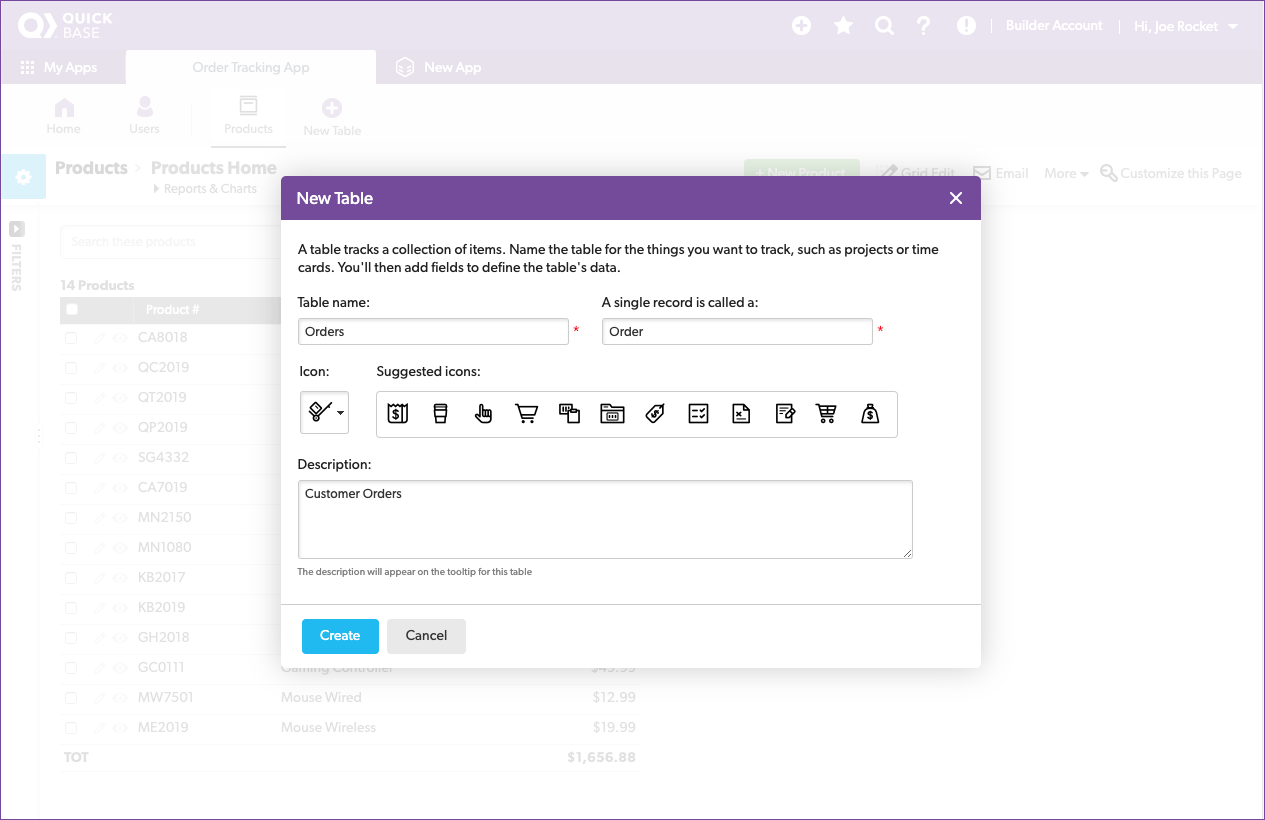
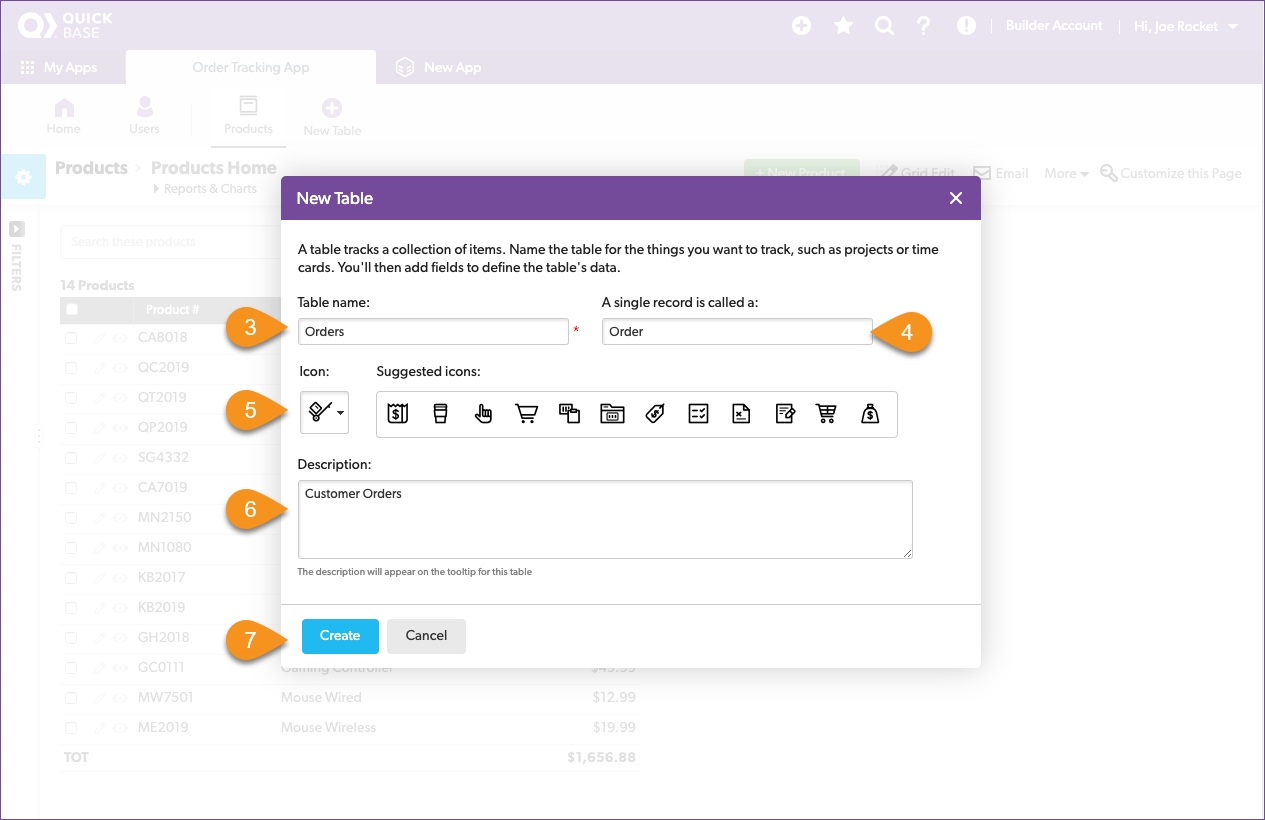
Create orders images

diff --git a/createOrders.md b/createOrders.md
@@ -32,8 +32,6 @@ Reviewing the spreadsheet, you write down the following notes:
 
 Let's take what we learned from the spreadsheet and configure a table to hold the order information. 
 
-![](assets/images/image-17.png)
-
 1. Click **New Table** from the app nav bar  
 2. Click **From scratch - Design your own table**
 3. Name the table: _Orders_
@@ -42,42 +40,57 @@ Let's take what we learned from the spreadsheet and configure a table to hold th
 6. Provide a description
 7. Click **Create**
 
+![](assets/images/image-17.png)
+
 ![](assets/images/image-18.png)
 
 Ok, now add the fields to the table.
-
-![](assets/images/image-19.png)
-
-1. Create fields to hold the _Order #, Customer Name, Order Date_ 
+1. Create fields to hold the _Order #, Customer Name,_ and  _Order Date_ 
 2. Set the data types for each field from our notes above
 3. Click the **Add** button
 
+![](assets/images/image-19.png)
+
+
+
 Don't forget about setting the **key field** for the Orders table. 
 
-![](assets/images/image-20.png)
 
  1. Select the checkbox for Order #
  2. Click **Set Key**
  3. Click the **Set Key** button in the popup  
  4. Verify that the gold key moved to the Order # field
 
+![](assets/images/image-20.png)
+
+![](assets/images/image-20a.png)
+
+![](assets/images/image-20b.png)
+
 ## Import the orders spreadsheet
 
 Finally, import the orders from the OrderList.xlsx file you downloaded earlier. Just like before, the import dialogue box opens and gives you the opportunity to verify that the data will stored correctly. Review the information and import your data.
-
-![](assets/images/image-21.png)
+Here's how:
 
 1. Click the **Import/Export** button
 2. Select **Import into a table from a file**
-3. Confirm Select Table is set to _Orders_ and Select Merge Field is set to _Order #_
-4. Click the **Import From File** button
+3. Confirm Select Table is set to _Orders_ 
+4. Confirm Select Merge Field is set to _Order #_
+5. Click the **Choose file** button and navigate to the _OrderList.xlsx_
+6. Click the **Import From File** button
 
-![](assets/images/image-22.png)
+![](assets/images/image-20c.png)
+
+![](assets/images/image-21.png)
+
+
 
 Next we'll review how each field will be imported to ensure it's correct.
 1. Review the fields to be sure that the correct data is going to the correct fields
 2. Click the **Import** button
 3. Click **OK**
+
+![](assets/images/image-22.png)
 
 A page shows the results: 67 data rows were read, 67 new records were created, 0 existing records were updated, and there were 0 data rows with errors. The import was successful, and your app now contains the data from the `OrderList.xlsx` file. 
 

diff --git a/createProducts.md b/createProducts.md
@@ -76,7 +76,7 @@ Now that we have set the configuration let's look at how it will be iimported.
 1. The first row of Drew's spreadsheet contains the field names. Make sure this is checked.
 2. We've already defined the fields and we want the data imported to them
 3. Look at the data and field names and make sure they match the spreadsheet
-3. Click the **Import** button
+4. Click the **Import** button
 
 ![](assets/images/image-9.png)
 
